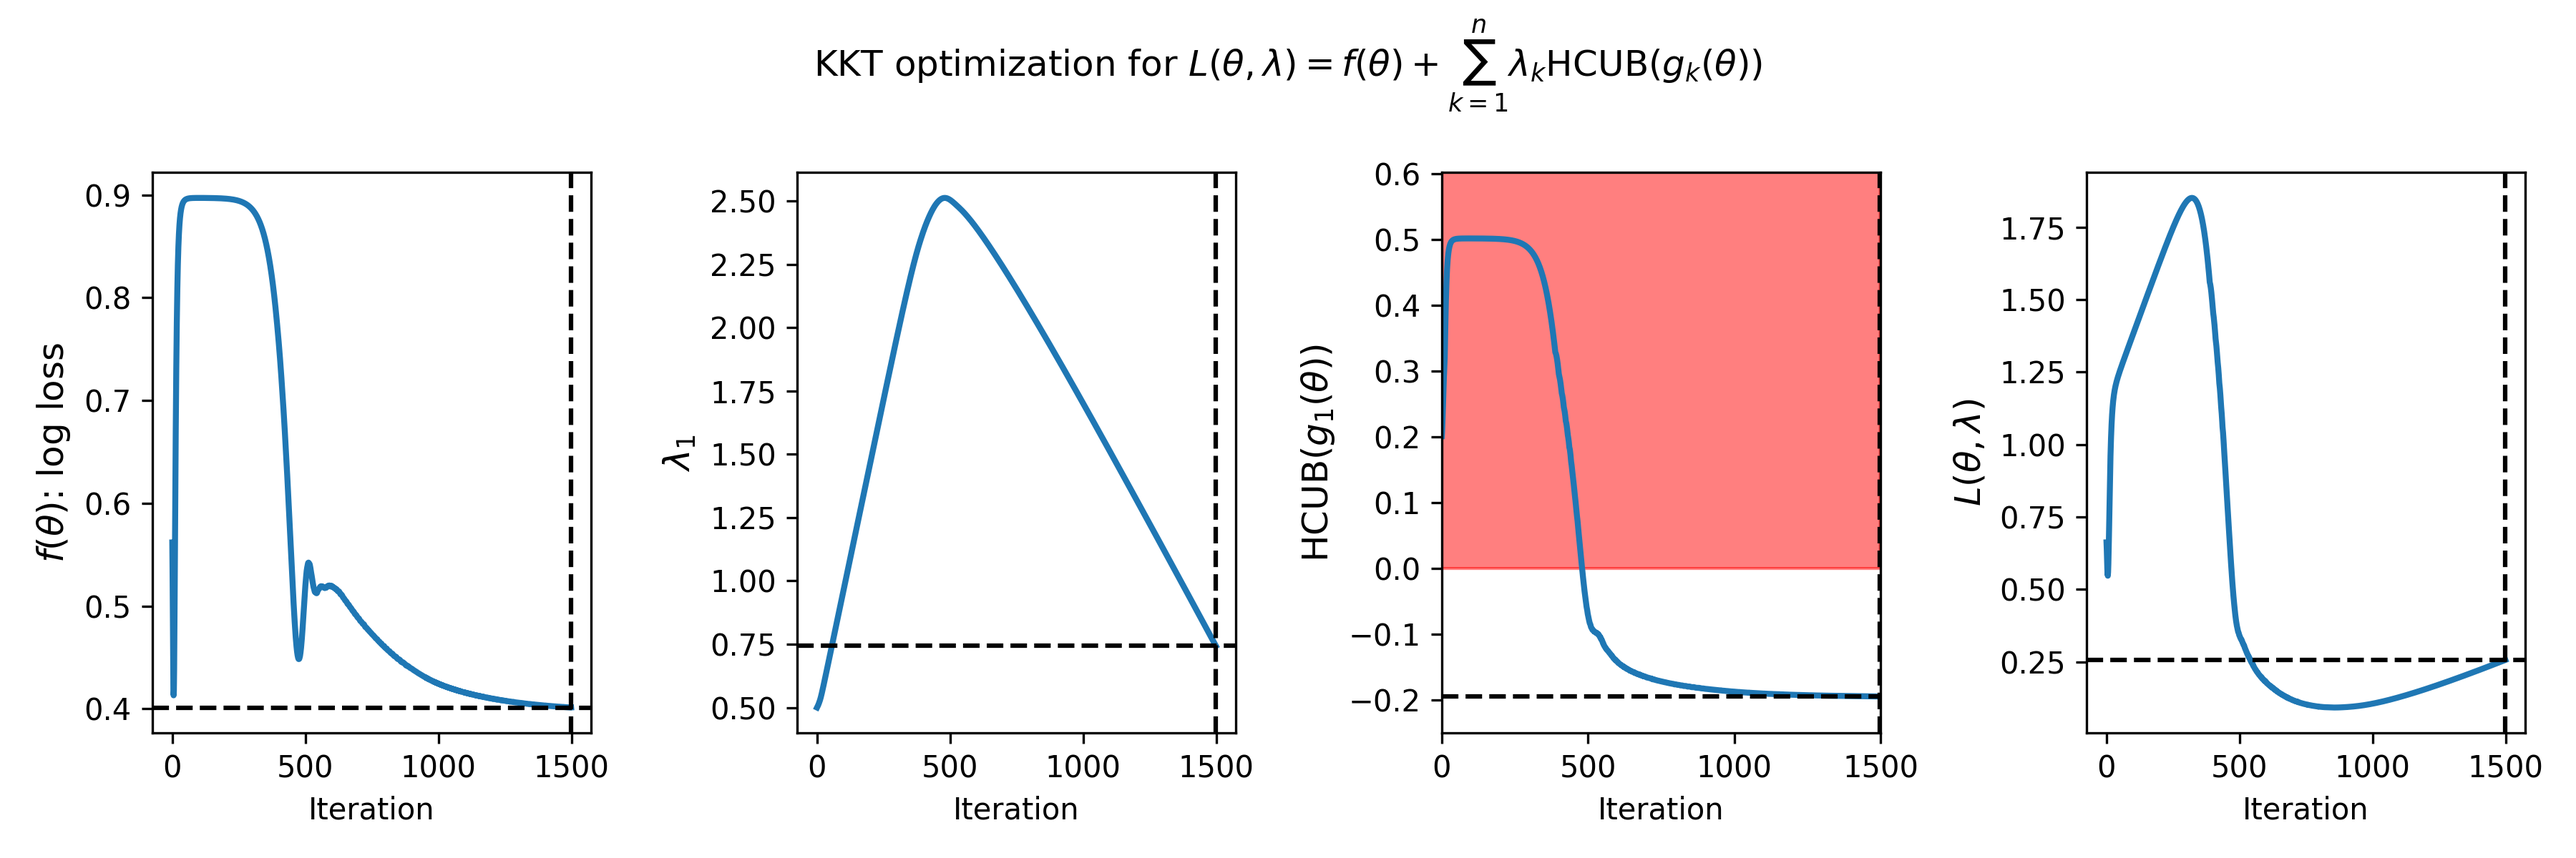
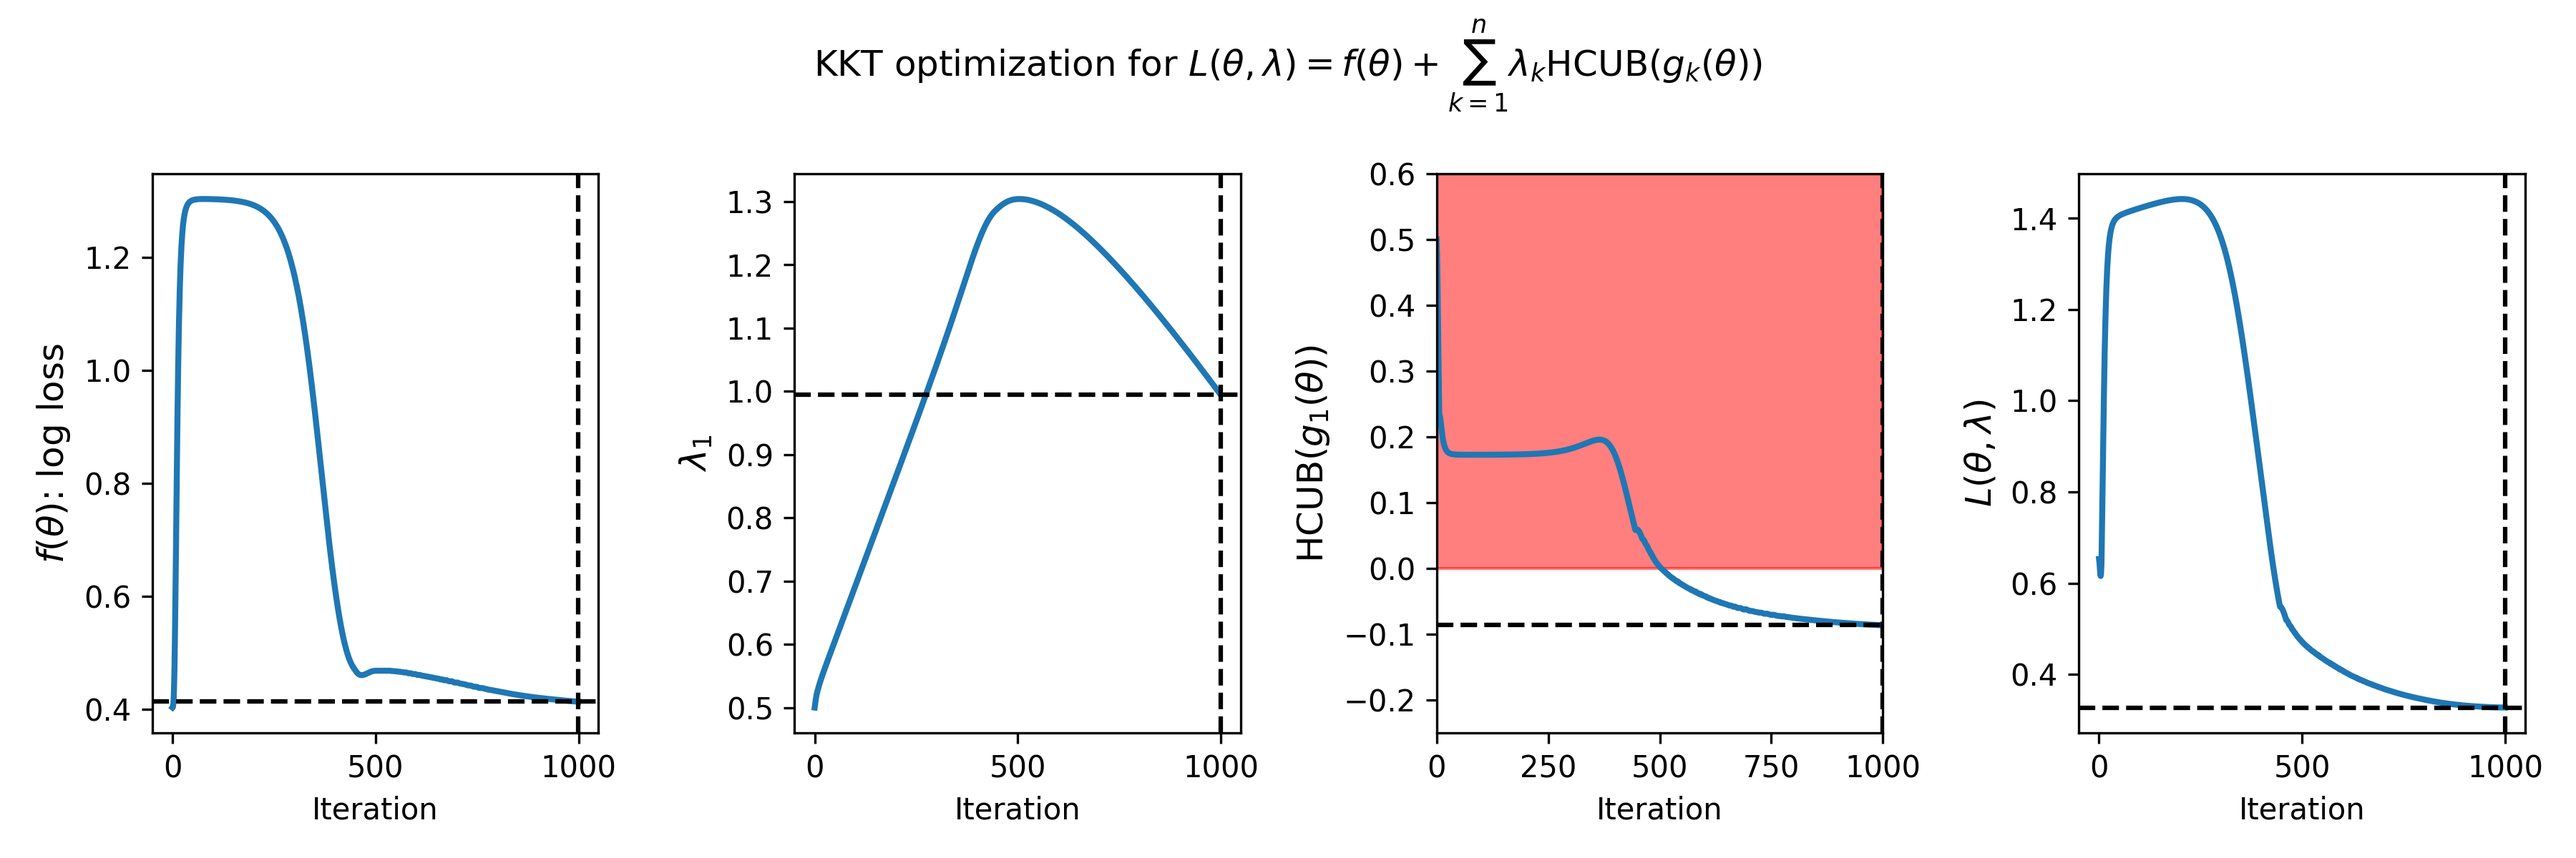
update german credit example

diff --git a/examples/german_credit/createSpec.py b/examples/german_credit/createSpec.py
@@ -9,7 +9,7 @@ from seldonian.models.models import LogisticRegressionModel
 if __name__ == '__main__':
     data_pth = "../../static/datasets/supervised/german_credit/german_loan_numeric_forseldonian.csv"
     metadata_pth = "../../static/datasets/supervised/german_credit/metadata_german_loan.json"
-    save_dir = '../../../interface_outputs/loan_demographic_parity_seldodef'
+    save_dir = '../../../interface_outputs/loan_disparate_impact_fairlearndef'
     os.makedirs(save_dir,exist_ok=True)
     # Load metadata
     metadata_dict = load_json(metadata_pth)
@@ -39,9 +39,9 @@ if __name__ == '__main__':
     
     # Define behavioral constraints
     # constraint_strs = ['0.9 - min((PR | [M])/(PR | [F]),(PR | [F])/(PR | [M]))'] 
-    # constraint_strs = ['0.9 - min((PR | [M])/(PR),(PR)/(PR | [M]))'] 
+    constraint_strs = ['0.9 - min((PR | [M])/(PR),(PR)/(PR | [M]))'] 
     # constraint_strs = ['abs((PR | [M]) - PR) - 0.1'] 
-    constraint_strs = ['abs((PR | [M]) - (PR | [F])) - 0.1'] 
+    # constraint_strs = ['abs((PR | [M]) - (PR | [F])) - 0.1'] 
     # constraint_strs = ['abs((FPR | [M]) - FPR) - 0.1'] 
     # constraint_strs = ['abs((FPR | [M]) - FPR) - 0.1'] 
     
@@ -73,7 +73,6 @@ if __name__ == '__main__':
         parse_trees=parse_trees,
         initial_solution_fn=model_class().fit,
         use_builtin_primary_gradient_fn=True,
-        bound_method='ttest',
         optimization_technique='gradient_descent',
         optimizer='adam',
         optimization_hyperparams={

diff --git a/examples/german_credit/loan_fairness.py b/examples/german_credit/loan_fairness.py
@@ -1,3 +1,4 @@
+# loan fairness
 import os
 
 from seldonian.seldonian_algorithm import SeldonianAlgorithm
@@ -7,7 +8,8 @@ if __name__ == '__main__':
 	# Load loan spec file
 	# specfile = '../../../interface_outputs/disparate_impact_fairlearn/spec.pkl'
 	# specfile = '../../../interface_outputs/demographic_parity_fairlearn/spec.pkl'
-	specfile = '../../../interface_outputs/loan_disparate_impact_fairlearndef/spec.pkl'
+	# specfile = '../../../interface_outputs/loan_disparate_impact_fairlearndef/spec.pkl'
+	specfile = '../../../interface_outputs/loan_disparate_impact_seldodef/spec.pkl'
 	spec = load_pickle(specfile)
 	
 	spec.use_builtin_primary_gradient_fn = False

diff --git a/examples/german_credit/plot_loan_cs.py b/examples/german_credit/plot_loan_cs.py
@@ -4,11 +4,12 @@ import matplotlib.pyplot as plt
 
 if __name__ == '__main__':
 	# Load loan spec file
-	cs_file = '/Users/ahoag/beri/code/engine-repo/examples/german_credit/logs/candidate_selection_log1.p'
+	# cs_file = '/Users/ahoag/beri/code/engine-repo/examples/german_credit/logs/candidate_selection_log1.p'
+	cs_file = '/Users/ahoag/beri/code/engine-repo/examples/german_credit/logs/candidate_selection_log12.p'
 	savename = './loan_cs.png'
 	solution_dict = load_pickle(cs_file)
 	
 	fig = plot_gradient_descent(solution_dict,
 		primary_objective_name='log loss',
-		save=False,savename=savename)
+		save=True,savename=savename)
 	plt.show()
